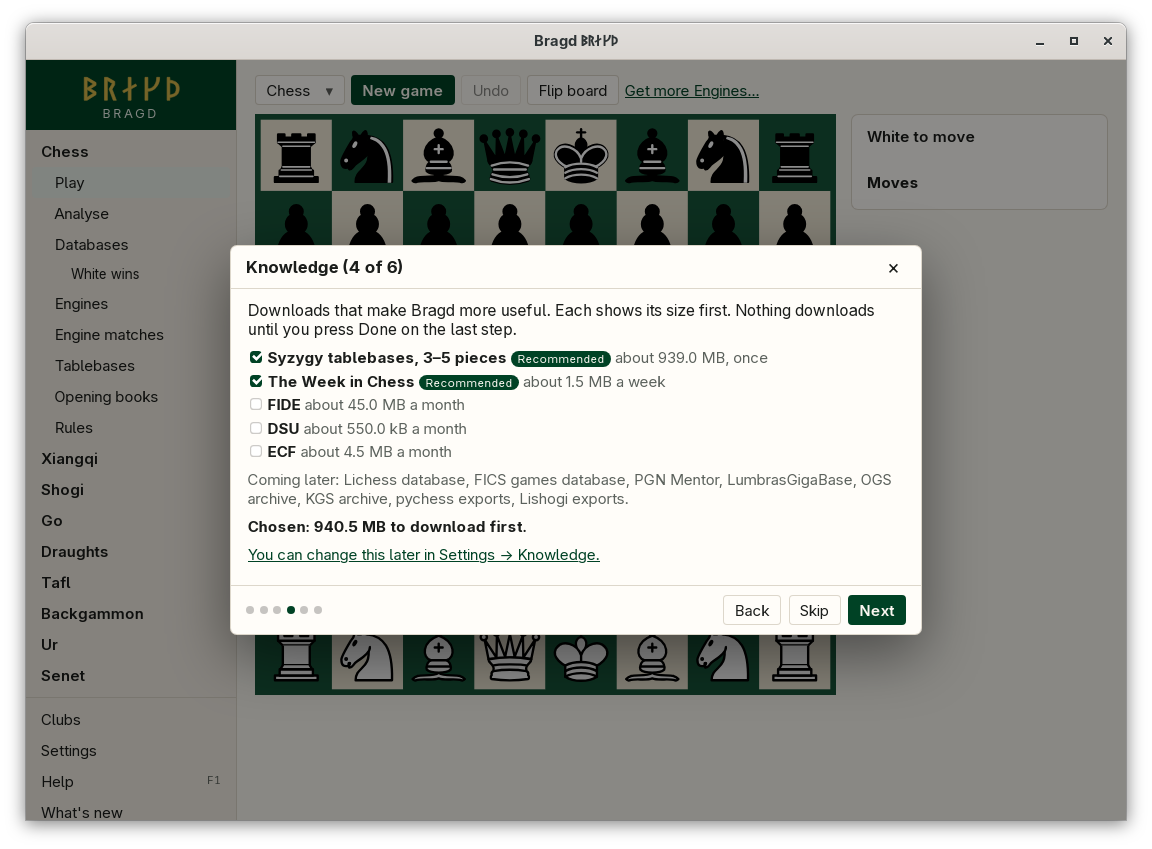
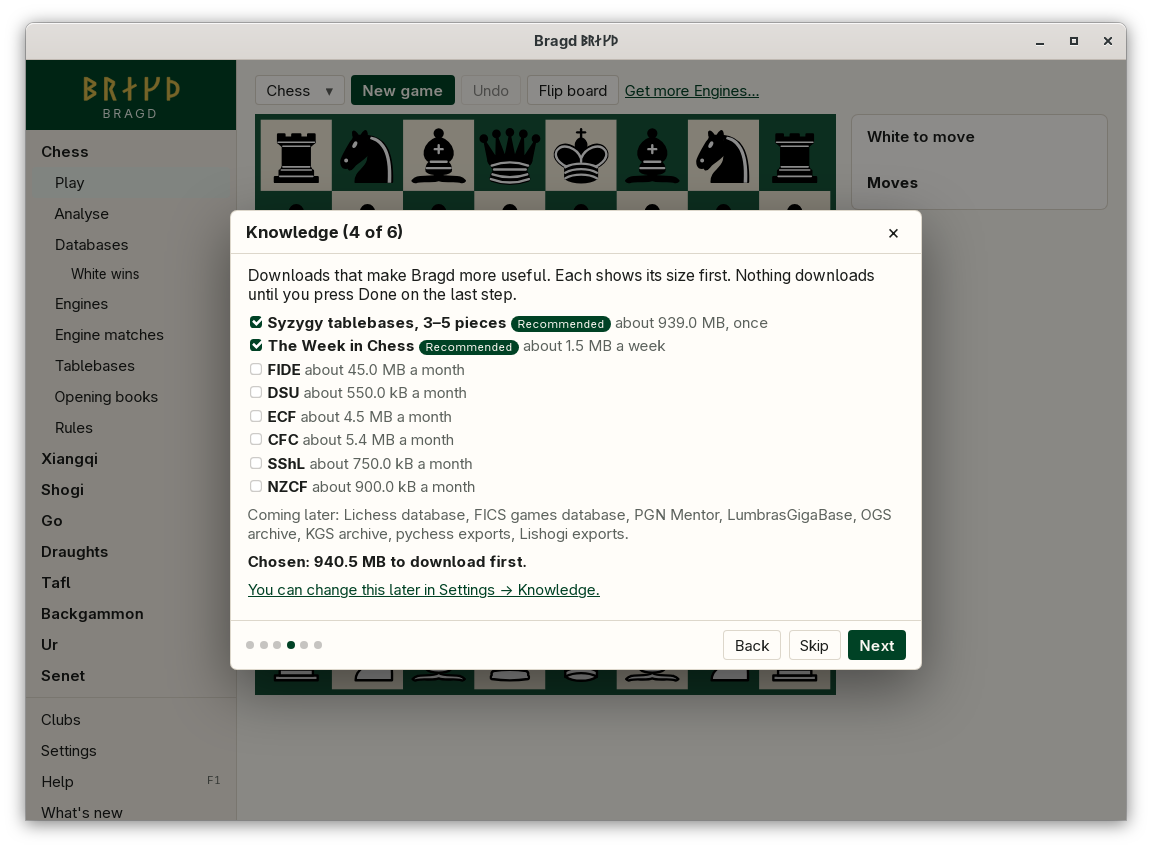
Find players in the Canadian, Finnish and New Zealand rating lists too.

Changed region(s): [[0.1875, 0.245, 0.8125, 0.8269]]

diff --git a/crates/bragd-clubs/src/lists.rs b/crates/bragd-clubs/src/lists.rs
@@ -57,6 +57,12 @@ pub enum Format {
     DsuCsv,
     /// The English Chess Federation's rating list: comma-separated, with a header.
     EcfCsv,
+    /// The Chess Federation of Canada's: comma-separated, a header, then a row holding its date.
+    CfcCsv,
+    /// The Finnish Chess Federation's: `;`-separated, Latin-1, each line ending in a `;`.
+    FinCsv,
+    /// The New Zealand Chess Federation's: a JSON array of objects whose values are all strings.
+    NzJson,
 }
 
 /// A rating list Bragd can fetch: its id (the Source's), its name, where it is, the file it is
@@ -77,6 +83,9 @@ pub const LISTS: &[List] = &[
     List { id: "fide-ratings", name: "FIDE", url: "https://ratings.fide.com/download/players_list.zip", file: "players_list.zip", size: 45_000_000, format: Format::FideTxt },
     List { id: "dsu-ratings", name: "DSU", url: "https://turnering.skak.dk/ClubAndMembers/AllMemberReport?memType=ActiveMembersAjax&format=csv", file: "dsu-members.csv", size: 550_000, format: Format::DsuCsv },
     List { id: "ecf-ratings", name: "ECF", url: "https://rating.englishchess.org.uk/api/rating-list/csv", file: "ecf-ratings.csv", size: 4_500_000, format: Format::EcfCsv },
+    List { id: "cfc-ratings", name: "CFC", url: "https://files.chess.ca/data/cfc-ratings.csv", file: "cfc-ratings.csv", size: 5_400_000, format: Format::CfcCsv },
+    List { id: "sshl-ratings", name: "SShL", url: "https://www.shakki.net/selo/selolista.csv", file: "sshl-ratings.csv", size: 750_000, format: Format::FinCsv },
+    List { id: "nzcf-ratings", name: "NZCF", url: "https://compete.newzealandchess.co.nz/wp-content/uploads/2024/10/nz_ratings.json", file: "nzcf-ratings.json", size: 900_000, format: Format::NzJson },
 ];
 
 /// What a parser hands each player to.
@@ -124,6 +133,11 @@ fn number<T: std::str::FromStr + PartialEq + Default>(s: &str) -> Option<T> {
     s.trim().parse().ok().filter(|n| *n != T::default())
 }
 
+/// An ID as a list writes it, none when blank or 0.
+fn id(s: &str) -> String {
+    if s.trim() == "0" { String::new() } else { s.trim().into() }
+}
+
 /// The players in `r`, written as `format`.
 pub fn parse(format: Format, r: &mut dyn BufRead, each: Each) -> io::Result<()> {
     match format {
@@ -161,8 +175,27 @@ pub fn parse(format: Format, r: &mut dyn BufRead, each: Each) -> io::Result<()> 
                 })
             })
         }
-        Format::DsuCsv | Format::EcfCsv => {
-            let sep = if format == Format::DsuCsv { ';' } else { ',' };
+        Format::NzJson => {
+            let rows: Vec<std::collections::HashMap<String, String>> = serde_json::from_reader(r).map_err(io::Error::other)?;
+            for f in rows {
+                let at = |k: &str| f.get(k).map_or("", |s| s.trim());
+                each(Player {
+                    id: at("nzcf").into(),
+                    name: format!("{}, {}", at("surname"), at("name")),
+                    federation: at("fed").into(),
+                    club: at("club").into(),
+                    title: at("title").into(),
+                    rating: number(at("nzcf_standard")),
+                    rapid: number(at("nzcf_rapid")),
+                    blitz: None,
+                    born: number(at("year")),
+                    fide_id: id(at("fide")),
+                })?;
+            }
+            Ok(())
+        }
+        Format::DsuCsv | Format::EcfCsv | Format::CfcCsv | Format::FinCsv => {
+            let sep = if matches!(format, Format::DsuCsv | Format::FinCsv) { ';' } else { ',' };
             let mut head: Vec<String> = vec![];
             lines(r, |line| {
                 let f = fields(line, sep);
@@ -175,9 +208,33 @@ pub fn parse(format: Format, r: &mut dyn BufRead, each: Each) -> io::Result<()> 
                     let i = if last { head.iter().rposition(|h| h == name) } else { head.iter().position(|h| h == name) };
                     i.and_then(|i| f.get(i)).map_or("", |s| s.trim())
                 };
-                each(if format == Format::DsuCsv {
+                each(match format {
+                    // CFC's second row holds the list's date under the ID -100.
+                    Format::CfcCsv if at("cfc_id", false).starts_with('-') => return Ok(()),
+                    Format::CfcCsv => Player {
+                        id: at("cfc_id", false).into(),
+                        name: format!("{}, {}", at("name_last", false), at("name_first", false)),
+                        federation: "CAN".into(),
+                        rating: number(at("cfc_rating", false)),
+                        rapid: number(at("cfc_rating_rapid", false)),
+                        fide_id: id(at("fide_id", false)),
+                        ..Player::default()
+                    },
+                    // `selo` is the national rating and `pelo` the rapid one; `elo` is FIDE's.
+                    Format::FinCsv => Player {
+                        id: at("id", false).into(),
+                        name: format!("{}, {}", at("sukunimi", false), at("etunimi", false)),
+                        federation: at("kansallisuus", false).into(),
+                        club: at("seura", false).into(),
+                        title: at("titteli", false).into(),
+                        rating: number(at("selo", false)),
+                        rapid: number(at("pelo", false)),
+                        blitz: None,
+                        born: number(at("syntvuosi", false)),
+                        fide_id: id(at("fide_id", false)),
+                    },
                     // `Nr` twice: the DSU member number first, the FIDE ID last.
-                    Player {
+                    Format::DsuCsv => Player {
                         id: at("Nr", false).into(),
                         name: at("Navn", false).into(),
                         federation: "DEN".into(),
@@ -188,9 +245,8 @@ pub fn parse(format: Format, r: &mut dyn BufRead, each: Each) -> io::Result<()> 
                         blitz: number(at("Lyn", false)),
                         born: number(at("Født", false)),
                         fide_id: at("Nr", true).into(),
-                    }
-                } else {
-                    Player {
+                    },
+                    Format::EcfCsv | Format::FideTxt | Format::NzJson => Player {
                         id: at("ECF_code", false).into(),
                         name: at("full_name", false).into(),
                         federation: at("nation", false).into(),
@@ -201,7 +257,7 @@ pub fn parse(format: Format, r: &mut dyn BufRead, each: Each) -> io::Result<()> 
                         blitz: number(at("revised_blitz", false)),
                         born: None,
                         fide_id: at("FIDE_no", false).into(),
-                    }
+                    },
                 })
             })
         }
@@ -488,6 +544,44 @@ mod tests {
         let p = &ps[0];
         assert_eq!((p.id.as_str(), p.name.as_str(), p.federation.as_str(), p.club.as_str(), p.title.as_str(), p.fide_id.as_str()), ("100057D", "Kennaugh, Charles W", "ENG", "Atticus", "FM", "400815"));
         assert_eq!((p.rating, p.rapid), (Some(2118), None));
+    }
+
+    #[test]
+    fn the_cfc_list_skips_its_date_row_and_reads_0_as_none() {
+        let csv = "cfc_id,name_first,name_last,cfc_expiry,cfc_rating,cfc_rating_rapid,fide_id,city,province,sex\r\n\
+-100,2026-10-29,,,,,,,,\r\n\
+100027,Philip G.,Haley,2019-01-01,1758,1700,2604442,North York,ON,M\r\n\
+100120,Wilson,Neil,2099-12-01,0,0,0,\"Dallas, TX\",US,M\r\n";
+        let ps = parsed(Format::CfcCsv, csv.as_bytes());
+        assert_eq!(ps.len(), 2);
+        let p = &ps[0];
+        assert_eq!((p.id.as_str(), p.name.as_str(), p.federation.as_str(), p.fide_id.as_str()), ("100027", "Haley, Philip G.", "CAN", "2604442"));
+        assert_eq!((p.rating, p.rapid), (Some(1758), Some(1700)));
+        assert_eq!((ps[1].rating, ps[1].fide_id.as_str()), (None, ""));
+    }
+
+    #[test]
+    fn the_finnish_list_is_read_in_latin_1_with_its_trailing_separator() {
+        let csv = b"id;fide_id;titteli;sukunimi;etunimi;seura;selo;selopelej\xe4;selovuosi;pelo;pelopelej\xe4;pelovuosi;elo;sukupuoli;kansallisuus;syntvuosi;lisenssi;\r\n\
+1;504599;ME;Aakio;Seppo;LauttSSK;2004;954;2026;2099;2629;2026;2017;M;FIN;1954;L;\r\n\
+2;;;\xc4kr\xf6;Erica;KOULU/;1446;7;;;;;;F;FIN;;;\r\n";
+        let ps = parsed(Format::FinCsv, csv);
+        assert_eq!(ps.len(), 2);
+        let p = &ps[0];
+        assert_eq!((p.id.as_str(), p.name.as_str(), p.club.as_str(), p.title.as_str(), p.federation.as_str(), p.fide_id.as_str()), ("1", "Aakio, Seppo", "LauttSSK", "ME", "FIN", "504599"));
+        assert_eq!((p.rating, p.rapid, p.born), (Some(2004), Some(2099), Some(1954)));
+        assert_eq!((ps[1].name.as_str(), ps[1].rapid, ps[1].born), ("Äkrö, Erica", None, None));
+    }
+
+    #[test]
+    fn the_new_zealand_list_is_read_from_its_json() {
+        let json = r#"[{"surname": "Abbott", "name": "Isaac", "fed": "NZL", "year": "2007", "title": "", "fide": "4326350", "nzcf": "20069", "club": "", "nzcf_standard": "1544", "nzcf_rapid": "1410", "fide_standard": "1730", "fide_rapid": "1598"}, {"surname": "Chow", "name": "Marcus", "fed": "NZL", "year": "2014", "title": "", "fide": "0", "nzcf": "20712", "club": "NS", "nzcf_standard": "", "nzcf_rapid": "1144", "fide_standard": "0", "fide_rapid": "1578"}]"#;
+        let ps = parsed(Format::NzJson, json.as_bytes());
+        assert_eq!(ps.len(), 2);
+        let p = &ps[0];
+        assert_eq!((p.id.as_str(), p.name.as_str(), p.federation.as_str(), p.fide_id.as_str()), ("20069", "Abbott, Isaac", "NZL", "4326350"));
+        assert_eq!((p.rating, p.rapid, p.born), (Some(1544), Some(1410), Some(2007)));
+        assert_eq!((ps[1].rating, ps[1].club.as_str(), ps[1].fide_id.as_str()), (None, "NS", ""));
     }
 
     #[test]

diff --git a/crates/bragd-helper/src/sources.rs b/crates/bragd-helper/src/sources.rs
@@ -527,7 +527,7 @@ pub(crate) mod tests {
     #[test]
     fn the_registry_lists_every_source_and_fetches_only_some() {
         let ids: Vec<String> = builtin().iter().map(|s| s.about().id).collect();
-        assert_eq!(ids, ["twic", "lichess-db", "fics", "pgnmentor", "lumbras", "ogs", "kgs", "pychess", "lishogi", "fide-ratings", "dsu-ratings", "ecf-ratings"]);
+        assert_eq!(ids, ["twic", "lichess-db", "fics", "pgnmentor", "lumbras", "ogs", "kgs", "pychess", "lishogi", "fide-ratings", "dsu-ratings", "ecf-ratings", "cfc-ratings", "sshl-ratings", "nzcf-ratings"]);
         for s in builtin().iter().skip(1).filter(|s| s.about().kind == Kind::Games) {
             let a = s.about();
             assert!(!a.fetchable && a.notice.as_deref() == Some(OUT_OF_SCOPE) && a.size > 0, "{}", a.id);

diff --git a/docs/reference/rating-lists.md b/docs/reference/rating-lists.md
@@ -9,6 +9,10 @@ Bragd can download rating lists so you can find players by name or ID at check-i
 - [The lists Bragd fetches](#the-lists-bragd-fetches)
 - [FIDE](#fide)
 - [Denmark (DSU)](#denmark-dsu)
+- [Canada (CFC)](#canada-cfc)
+- [Finland (SShL)](#finland-sshl)
+- [New Zealand (NZCF)](#new-zealand-nzcf)
+- [Lists Bragd does not fetch](#lists-bragd-does-not-fetch)
 - [Other federations](#other-federations)
 - [Questions](#questions)
 
@@ -21,8 +25,11 @@ Each is a Source of its own on the Sources page (chess's Databases item), off un
 | FIDE | `players_list.zip` | 45 MB | FIDE ID, name, federation, title, standard, rapid and blitz ratings, birth year |
 | DSU | the CSV of *Alle medlemmer* | 0.5 MB | DSU number, name, club, title, DSU standard, rapid and blitz ratings, birth year, FIDE ID |
 | ECF | `rating-list/csv` | 4.5 MB | ECF code, name, nation, club, title, revised standard, rapid and blitz ratings, FIDE ID |
+| CFC | `cfc-ratings.csv` | 5.4 MB | CFC ID, name, standard and rapid ratings, FIDE ID |
+| SShL | `selolista.csv` | 0.75 MB | SShL ID, name, nationality, club, title, national standard and rapid ratings, birth year, FIDE ID |
+| NZCF | `nz_ratings.json` | 0.9 MB | NZCF ID, name, federation, club, title, NZCF standard and rapid ratings, birth year, FIDE ID |
 
-The others below are not fetched: their file is not one a program can read on a schedule, their address changes each period, or their terms forbid it or ask for agreement first. Adding them is [issue #126](https://github.com/mwo-dk/bragd/issues/126).
+The others are not fetched, each for the reason in [Lists Bragd does not fetch](#lists-bragd-does-not-fetch).
 
 ## FIDE
 
@@ -124,6 +131,59 @@ Personal data: the file has name, birth year, age and club for every player, whi
 
 The list holds the active members only. The rules say a player whose last rated result is more than three years old leaves the list (see the [rating rules, 24 June 2025](https://love.skak.dk/wp-content/uploads/sites/3/Ratingreglementet-20250624.pdf), 200). The rules also set a minimum of 1200. A rating of a returning player is stored and used again.
 
+## Canada (CFC)
+
+| Item | Value |
+|---|---|
+| URL | [`https://files.chess.ca/data/cfc-ratings.csv`](https://files.chess.ca/data/cfc-ratings.csv), from the Data Files box of the [organisers page](https://www.chess.ca/en/organizers/) |
+| Verified | 2026-11-01, 200 |
+| Size | 5.4 MB, 96,896 rows; 55,750 with a CFC rating, 10,654 with a FIDE ID |
+| Encoding | UTF-8, lines end in CR LF, comma separated, a field holding a comma is quoted |
+| Updated | Not stated; the file was last changed on 30 Oct 2026 |
+| Licence | None stated. `robots.txt` allows every agent |
+
+The header is `cfc_id,name_first,name_last,cfc_expiry,cfc_rating,cfc_rating_rapid,fide_id,city,province,sex`. The second row is not a player: its `cfc_id` is `-100` and its `name_first` holds the list's date. A rating or FIDE ID of `0` means none. Lapsed members stay in the list. The organisers page labels the link `cfc-ratings.zip`, which answers 404; the file is the `.csv` beside it.
+
+## Finland (SShL)
+
+| Item | Value |
+|---|---|
+| URL | [`https://www.shakki.net/selo/selolista.csv`](https://www.shakki.net/selo/selolista.csv), "koko lista CSV-muodossa" on the [rating page](https://www.shakki.net/selo/) |
+| Verified | 2026-11-01, 200 |
+| Size | 740 KB, 12,070 players; 3,527 with a FIDE ID |
+| Encoding | ISO-8859-1 (Latin 1), lines end in CR LF, `;` separated, every line ends in a `;` |
+| Updated | Irregular; the national list was dated 30 Oct 2026, the rapid list 23 Oct 2026 |
+| Licence | None stated |
+
+The header is `id;fide_id;titteli;sukunimi;etunimi;seura;selo;selopelejä;selovuosi;pelo;pelopelejä;pelovuosi;elo;sukupuoli;kansallisuus;syntvuosi;lisenssi;`. `selo` is the national standard rating and `pelo` the rapid one; `elo` is the FIDE rating. `titteli` holds Finnish titles (such as ME and KvM) as well as FIDE's.
+
+## New Zealand (NZCF)
+
+| Item | Value |
+|---|---|
+| URL | [`https://compete.newzealandchess.co.nz/wp-content/uploads/2024/10/nz_ratings.json`](https://compete.newzealandchess.co.nz/wp-content/uploads/2024/10/nz_ratings.json), the file the [ratings page](https://compete.newzealandchess.co.nz/new-zealand-ratings-list/) draws its table from |
+| Verified | 2026-11-01, 200 |
+| Size | 871 KB, 4,036 players; 2,445 with a FIDE ID |
+| Encoding | UTF-8, one line |
+| Updated | Four times a year; the file is replaced in place (last changed 21 Oct 2026) |
+| Licence | None stated. `robots.txt` asks for 10 seconds between requests; Bragd makes one a month |
+
+The file is an array of objects whose values are all strings: `surname`, `name`, `fed`, `year`, `title`, `fide`, `nzcf`, `club`, `nzcf_standard`, `nzcf_rapid`, `fide_standard`, `fide_rapid`. An empty value or `0` means none. The CSV and JSON buttons on the page make their file in the browser from this one. The address names a 2024 upload folder: if the NZCF moves the file, the fetch fails and the Sources page says so.
+
+## Lists Bragd does not fetch
+
+Checked again on 2026-11-01.
+
+- **Germany (DSB):** the README in the zip says publishing the data needs prior agreement with the DWZ referee. Bragd waits for the DSB's agreement.
+- **Australia (ACF):** the terms forbid importing the files into any other database or program.
+- **Catalonia (FCE):** the legal notice allows private download but forbids transforming the content, which an import does.
+- **Sweden (SSF):** the API's terms allow it, but the date is part of the address and a wrong date gives an empty list. Bragd needs to learn the list dates first.
+- **Czechia:** the stable file is an old binary Excel file, which Bragd cannot read.
+- **Austria, Colombia, Japan:** the file name carries the period, and Austria's and Japan's are Excel and PDF.
+- **Armenia:** the download is a form post, with no address to fetch.
+- **Switzerland, Netherlands, Belgium, Norway, Poland, Estonia, Israel, Greece, Georgia, Latvia:** a search page or a JavaScript app only, with no file or documented API.
+- **Lithuania, Chile, Peru, Mexico, South Korea, Iran:** no list found, or the federation's site was not found.
+
 ## Other federations
 
 "FIDE list only" means the federation's own site shows no download that a program can fetch. Where a row says "web page only", a person can look players up but the page has no file or API. "Verified" is the HTTP status of the file or page on 2026-11-01. Federations not listed individually in this table were not searched beyond their home page.
@@ -133,47 +193,48 @@ The list holds the active members only. The rules say a player whose last rated 
 | Germany | DSB (DWZ) | [LV-0-csv.zip](https://www.schachbund.de/download-dwz-daten.html?file=files/wertungsportal/downloads/export/csv/LV-0-csv.zip), the whole DSB, 3.1 MB; one zip per regional association (`LV-1` to `LV-M`) is on the [download page](https://www.schachbund.de/download-dwz-daten.html) | ZIP of `spieler.csv`, `vereine.csv`, `verbaende.csv`, `README.txt`. Comma separated, Windows-1252. Fields: ID, club number, membership number, status (A active, P passive), "Surname,Given name", sex, birth year, last evaluation week, DWZ, index, FIDE rating, title, ID, country, rapid and blitz | The README says: "Eine Veröffentlichung dieser Daten ist nur nach vorheriger Absprache mit dem zuständigen DWZ-Referenten erlaubt!" (publishing needs prior agreement) | Every day at 04:15, DWZ joined with the current FIDE data. 97,712 players on 31 Oct 2026 | 200 (file), 200 (page) |
 | England (UK) | ECF | [rating-list/csv](https://rating.englishchess.org.uk/api/rating-list/csv), 4.5 MB, 45,830 rows; also [json](https://rating.englishchess.org.uk/api/rating-list/json) and [sm](https://rating.englishchess.org.uk/api/rating-list/sm) (Swiss Manager, fewer columns) | CSV with a header: ECF code, name, member number, FIDE ID, sex, nation, original and revised standard, rapid and blitz (also online), club code, club name, title | None stated. The [API page](https://rating.englishchess.org.uk/help/api) says "Subject to change without notice currently" and limits use to 10 minutes of processing per day per class C network | "Original" ratings at month end, "revised" ratings nightly | 200 (csv); API page 200 |
 | Australia | ACF | [rating-lists page](https://auschess.org.au/rating-lists/) with [sepmst26.txt](https://auschess.org.au/wp-content/uploads/2026/09/sepmst26.txt) (master file, 2.4 MB), [sep26act.txt](https://auschess.org.au/wp-content/uploads/2026/09/sep26act.txt) (active, 226 KB), `sep26quick.txt`, and Vega and Swiss Perfect zips ([vegamast.zip](https://auschess.org.au/wp-content/uploads/2026/09/vegamast.zip) 0.9 MB, [acfmast.zip](https://auschess.org.au/wp-content/uploads/2026/09/acfmast.zip) 1.4 MB) | Fixed-width TXT, CR LF: rating (with reliability mark), games, rank and points columns, state, name. Master file starts `ACF Master File for September 2026`; the first column is the ACF ID | Copyright ACF. The page says that by downloading you agree not to modify, extract or reverse engineer the data, or import it into other systems. Bragd must not import it | Per rating period; the page says "Updated September 5th, 2026". File names carry the month, so the URL changes | 200 (page); files 206 on a range request. A plain HEAD request returned 404 |
-| Canada | CFC | [cfcmembers.mde](https://storage.googleapis.com/cfc-public/data/cfcmembers.mde), 9.2 MB | Microsoft Access database (`.mde`) with CFC and FIDE IDs and ratings. Linked from the [Swiss-Manager tools page](https://www.chess.ca/en/organizers/tools/swiss-manager) | None stated | Not stated; the file was last changed on 30 Oct 2026 | 200 |
-| New Zealand | NZCF | [2026-3-Alphabetical-20261020.xlsx](https://compete.newzealandchess.co.nz/wp-content/uploads/2026/10/2026-3-Alphabetical-20261020.xlsx) (429 KB) and [2026-3-Active-20261020.xlsx](https://compete.newzealandchess.co.nz/wp-content/uploads/2026/10/2026-3-Active-20261020.xlsx) (80 KB), from the [ratings page](https://compete.newzealandchess.co.nz/new-zealand-ratings-list/). The page also has CSV and JSON buttons whose URLs were not found | XLSX; the file name carries the period and the date, so the URL changes | None stated | Four times a year (1 Jan, 1 Apr, 1 Jul, 1 Oct, per the rating regulations); the page says "Updated 22/10/2026" | 200 (both) |
-| Czechia | Šachový svaz ČR (LOK) | [20261001_lok_sm_ascii.zip](https://elo.miramal.com/download/20261001_lok_sm_ascii.zip) (1.4 MB), [20261001_lok_sm_cz.zip](https://elo.miramal.com/download/20261001_lok_sm_cz.zip) (1.4 MB, with diacritics), rapid in `..._rapid_lok_sm_cz.zip` | ZIP of one old binary XLS (`lok_sm_ascii.xls`, 4.6 MB), made for Swiss Manager. Columns not read | None stated | Periodic (list dated 1 Oct 2026, "Aktualizováno: 1. říjen 2026"). File names carry the date | 200 |
-| Finland | Suomen Shakkiliitto (tasaselo) | [selolist.txt](http://www.shakki.net/tasaselo/selolist.txt), 784 KB, about 12,000 lines. Page: [shakki.net/tasaselo](https://www.shakki.net/tasaselo/) | Fixed-width TXT, Latin 1, CR LF. Header `Nimi / Seura / Selo / Pelejä / L`. Columns: running number, surname, given name, club, rating, games. No ID | None stated | Irregular; dated 15 Oct 2026 | 200 (the `http` URL redirects once) |
+| Canada | CFC | Fetched: see [Canada (CFC)](#canada-cfc). Also [cfcmembers.mde](https://storage.googleapis.com/cfc-public/data/cfcmembers.mde) (9.2 MB, Microsoft Access) and [tdlist.txt](https://storage.googleapis.com/cfc-public/data/tdlist.txt) (5.3 MB), linked from the [organisers page](https://www.chess.ca/en/organizers/) | CSV | None stated | See its section | 200 |
+| New Zealand | NZCF | Fetched: see [New Zealand (NZCF)](#new-zealand-nzcf). The XLSX files on the [ratings page](https://compete.newzealandchess.co.nz/new-zealand-ratings-list/) carry the period in their names | JSON | None stated | Four times a year | 200 |
+| Czechia | Šachový svaz ČR (LOK) | [lok_sm_cz.xls](https://elo.miramal.com/download/lok_sm_cz.xls) (4.7 MB), overwritten each period; dated zips such as [20261001_lok_sm_cz.zip](https://elo.miramal.com/download/20261001_lok_sm_cz.zip) beside it. [chess.cz](https://www.chess.cz/sachovy-svaz-cr/elo/) links only here and to FIDE | Old binary Excel (BIFF, code page 1250), made for Swiss Manager. Columns: ID_no, Name, ClubName, BirthDay (`00.00.YYYY`), Sex, Rtg_nat, Rtg_int, Title, FIDE_no, Fed, ClubNo, Status | None stated | Classical list each 1 February, rapid each 1 November; the list shown is dated 1 Oct 2026 | 200 |
+| Finland | Suomen Shakkiliitto (SShL) | Fetched: see [Finland (SShL)](#finland-sshl). The older [selolist.txt](http://www.shakki.net/tasaselo/selolist.txt) is fixed-width with no FIDE ID | CSV | None stated | See its section | 200 |
 | Spain | FEDA | [Lista Elo FEDA Diciembre 2023](https://feda.org/feda2k16/wp-content/uploads/2023_12_FEDA.xlsx), 3.4 MB; index page [elo-feda](https://feda.org/feda2k16/elo-feda/) | XLSX, one per month. Older months are zips (`2022-04.zip`, 2.8 MB, with a lookup program) | None stated | Monthly until December 2023. The page has no newer list, and the 2024 and 2026 file names I tried returned 404 | 200 (December 2023 file); 404 for later months |
-| Spain | FCE (Catalonia) | Web view [escacs.cat/index.php/component/fce?op=25](https://escacs.cat/index.php/component/fce?op=25) | Web page only; no file found | None stated | Not stated | 200 |
+| Spain | FCE (Catalonia) | [EloActualStd.xls](https://escacs.cat/arxielo/EloActualStd.xls) and [EloActualRpd.xls](https://escacs.cat/arxielo/EloActualRpd.xls) (580 KB each), linked from [the Elo page](https://escacs.cat/index.php/component/fce?op=25) | Tab-separated text despite the name, Latin 1: FCE code, name, sex, K, Elo, title, category, club. No FIDE ID | The [legal notice](https://escacs.cat/index.php/avis-legal) allows download "pel seu us privat i sense cap finalitat comercial" and forbids "transformació, distribució ... qualsevol altre forma d'explotació" | Monthly (last changed 31 Oct 2026) | 200 |
 | Spain | Basque federation | FIDE list only | Not searched in depth | | | |
-| Austria | ÖSB | [chess-results.com/OesbEloSuche.aspx](https://chess-results.com/OesbEloSuche.aspx) | Web search page only; [chess.at/elo.html](https://www.chess.at/elo.html) links to it. The only download on [chess.at](https://www.chess.at/service/downloads.html) is the Elo rules (PDF) | None stated | Not stated | 200 (page); search page not fetched |
+| Austria | ÖSB | [chess-results.com/OesbEloSuche.aspx](https://chess-results.com/OesbEloSuche.aspx) offers the list as a zipped Excel file, e.g. [Eloliste_20261001.zip](https://chess-results.com/download/elolisten/Eloliste_20261001.zip) | Excel in a zip; the file name carries the date | None stated | Per rating period | 200 |
 | Switzerland | SSB | [Spielersuche](https://swisschess.ch/de/sport/rating-spieler/spielersuche) | Web table only (columns Code, FIDE-ID, Name, Vorname, Liz., Elo, Kat., Sektion). No export | None stated | Not stated | 200 |
-| Armenia | Chess Federation of Armenia | [players-ratings](https://www.chessfed.am/am/players-ratings/) | Page with an "Download in .xlsx" button for national and FIDE ratings. The button URL was not found, so a program cannot use it yet | None stated | International list "as of 01/10/2026" | 200 (page) |
+| Armenia | Chess Federation of Armenia | [players-ratings](https://www.chessfed.am/am/players-ratings/) | The "Download in .xlsx" buttons post a form (`operation=international_xls_export`); there is no address to fetch | None stated | International list "as of 01/10/2026" | 200 (page) |
 | Israel | Israel Chess Federation | [RatingUpdateInfo](https://www.chess.org.il/Players/RatingUpdateInfo.aspx) | Paginated web table only (number, name, rating, change, games) | Site terms page exists; content not read | Update dated 01/10/2026 | 200 |
 | France | FFE | FIDE list only | The home page links only to Elo Rapide and to chess-results pages. No download found | | | home page 200 |
 | Belgium | FRBE / KBSB | no public list found | The site is a JavaScript app; no file link found | | | home page 200 |
 | Netherlands | KNSB | no public list found | The KNSB rules say the rating commissioner compiles a full list "at least four times a year". The viewer site `ratingviewer.nl` is a JavaScript app; no file or API found | | | 200 (viewer home page) |
-| Sweden | SSF | no public list found | `member.schack.se` is a JavaScript app; `www.schack.se` did not answer | | | `www.schack.se` not reachable |
+| Sweden | SSF | Public API, [documented](https://member.schack.se/swagger-ui/index.html): `https://member.schack.se/public/api/v1/ratinglist/federation/date/{YYYY-MM-DD}/ratingtype/{1,6,7}/category/0` | JSON, UTF-8: SSF ID, names, birth year, FIDE ID, club, standard, rapid and blitz ratings | The [terms](https://halvarsson.no-ip.com/wordpressssf/publikt-api/anvandarvillkor/) allow use in other products, commercial use included, if the source is named. The date is part of the address; `2026-11-01` answered with 3,319 players, a date with no list answers `[]` | Monthly | 200 |
 | Norway | NSF | no public list found | No rating page found on the home page | | | home page 200 |
 | Poland | PZSzach | no public list found | The member and club registers are web pages; no ranking file | | | home page 200 |
 | Estonia | Eesti Maleliit | no public list found | The site is a JavaScript app; no file link found | | | home page 200 |
-| Greece | Hellenic Chess Federation | no public list found | `www.chessfed.gr` answered 406 to the check | | | not reachable (406) |
+| Greece | Hellenic Chess Federation | no public list found | [chessfed.gr/elo](https://www.chessfed.gr/elo) is a search page; the earlier 406 came from the checker's user agent | | | 200 |
 | Ukraine | UCF | no public list found | `ucf.org.ua` now redirects to an unrelated site; do not use | | | 200 but wrong site |
 | Italy | FSI | no public list found | Not checked beyond the home page | | | home page 200 |
 | Singapore | Singapore Chess Federation | FIDE list only | Not checked beyond the home page | | | home page 200 |
 | Taiwan | Chinese Taipei Chess Association | FIDE list only | Not checked beyond the home page | | | home page 200 |
-| Iran | Iran Chess Federation | FIDE list only | `chess.org.ir` not reachable; `fcf.ir` answered 200, not searched | | | not reachable |
+| Iran | Iran Chess Federation | no public list found | [fcf.ir](https://fcf.ir/fa) has no rating page; `chess.org.ir` does not resolve | | | 200 |
 | Argentina | FADA | FIDE list only | The address `fada.org.ar` I tried belongs to another sport; not confirmed | | | 200, wrong site |
-| Japan | JCA | FIDE list only | Not reachable by the address tried | | | not reachable |
-| South Korea | Korea Chess Federation | FIDE list only | Not reachable by the address tried | | | not reachable |
-| Georgia | Georgian Chess Federation | FIDE list only | Not reachable by the address tried | | | not reachable |
-| Lithuania | LŠF | FIDE list only | Not reachable by the addresses tried | | | not reachable |
-| Latvia | LŠF | FIDE list only | Not reachable by the address tried | | | not reachable |
+| Japan | JCA | Monthly PDF, e.g. [2026-11-01.pdf](https://japanchess.org/wp-content/uploads/2026/10/2026-11-01.pdf) | PDF; the address carries the month | | Monthly | 200 |
+| South Korea | Korea Chess Federation | no public list found | [kcf.or.kr](https://kcf.or.kr/) has no rating page | | | 200 |
+| Georgia | Georgian Chess Federation | no public list found | [geochess.ge](https://geochess.ge/) has rating pages but no download | | | 200 |
+| Lithuania | LŠF | FIDE list only | `lsf.lt` belongs to another sport; `sachmatai.lt` is "under reconstruction" | | | wrong site |
+| Latvia | LŠF | no public list found | [sahafederacija.lv](https://www.sahafederacija.lv/) is a JavaScript app | | | 200 |
 | Mexico | FEMEXA | FIDE list only | Not reachable by the address tried | | | not reachable |
-| Chile, Colombia, Peru | national federations | FIDE list only | Not reachable by the addresses tried | | | not reachable |
+| Colombia | Federación Colombiana de Ajedrez | [elo-2](https://federacioncolombianadeajedrez.com/elo-2/) lists monthly files, e.g. `ELOOct.csv` (15.3 MB) and `Elo_Nac_COL_octubre_2026.xlsx` | CSV and XLSX; the month is in each name | None stated | Monthly | 200 |
+| Chile, Peru | national federations | FIDE list only | Not reachable: `ajedrezchile.cl` now leads to an unrelated site; the Peruvian addresses tried do not resolve | | | not reachable |
 | Bolivia, Costa Rica, Cuba, Dominican Republic, Ecuador, Guatemala, Honduras, Nicaragua, Panama, Puerto Rico, El Salvador, Uruguay, Venezuela | national federations | FIDE list only | Not searched; no national list known | | | not checked |
 
-Data from the German, English, Australian and Danish rows has names and birth years or member numbers of private people. Bragd keeps any list it downloads on the machine and does not upload it.
+Data from the German, English, Canadian, Finnish, New Zealand, Australian and Danish rows has names and birth years or member numbers of private people. Bragd keeps any list it downloads on the machine and does not upload it.
 
 ## Questions
 
 #### Why is my federation's list missing?
 
-Most small federations only use the FIDE list, and many of the others publish no file, only a search page. A search page is no use to Bragd, which must fetch a list on a schedule and check players offline. Where a federation has a list but its terms forbid use in other software (Australia) or ask for agreement first (Germany), the federation's permission is needed before Bragd can use it.
+Most small federations only use the FIDE list, and many of the others publish no file, only a search page. A search page is no use to Bragd, which must fetch a list on a schedule and check players offline. Where a federation has a list but its terms forbid use in other software (Australia, Catalonia) or ask for agreement first (Germany), the federation's permission is needed before Bragd can use it.
 
 #### Is a downloaded list sent anywhere?
 
@@ -181,7 +242,7 @@ No. It stays in `rating-lists.sqlite` on your machine. Searching it at check-in 
 
 #### How big are the downloads?
 
-The FIDE combined list is 45 MB zipped and 320 MB unzipped, about 1.9 million lines. The standard-only list is 13 MB. The Danish list is 0.5 MB and the English one 4.5 MB. The wizard and the Sources page show each list's size before anything is downloaded.
+The FIDE combined list is 45 MB zipped and 320 MB unzipped, about 1.9 million lines. The standard-only list is 13 MB. The Danish list is 0.5 MB, the Finnish 0.75 MB, the New Zealand 0.9 MB, the English 4.5 MB and the Canadian 5.4 MB. The wizard and the Sources page show each list's size before anything is downloaded.
 
 #### How much disk does a list take, and how fast is a search?
 
@@ -193,7 +254,7 @@ Once a month, once you tick the list in the wizard or turn it on under Sources. 
 
 #### Can I use a list Bragd does not know?
 
-Not yet. Bragd reads only the three lists above. Members a list does not have can be added to a Club by hand, with their IDs ([Clubs](../clubs/clubs.md)).
+Not yet. Bragd reads only the six lists above. Members a list does not have can be added to a Club by hand, with their IDs ([Clubs](../clubs/clubs.md)).
 
 ---
 [← Previous: Privacy](privacy.md) · [Next: Swiss pairing →](swiss-pairing.md)

diff --git a/docs/getting-started/first-start.md b/docs/getting-started/first-start.md
@@ -15,13 +15,13 @@ On the first start Bragd opens the install wizard: six short steps in a frame ov
 | 1 Welcome | Language (each by its own name), Theme and Board theme, with a preview | Look |
 | 2 Your games | *Which games do you play?* One click on *Only Chess* (or any other Family) keeps that one and turns the rest off. *Several…* shows a switch for every Family and Variant | Game families |
 | 3 Engines | Nothing: it shows the Engines found on this machine for each Family that is on, or that Bragd's own Bot plays it | Engines |
-| 4 Knowledge | Downloads: TWIC every week and Syzygy 3–5 pieces (about 1 GB) are ticked; the others, the FIDE, DSU and ECF rating lists among them, are listed with their sizes. One line names the Sources coming later | Knowledge |
+| 4 Knowledge | Downloads: TWIC every week and Syzygy 3–5 pieces (about 1 GB) are ticked; the others, the FIDE, DSU, ECF, CFC, SShL and NZCF rating lists among them, are listed with their sizes. One line names the Sources coming later | Knowledge |
 | 5 Online | Nothing yet: signing in to servers comes in a later version. Until then it links the sites that play your Families | Online, when it has a setting for your Families |
 | 6 Helper | *Start with my session* | Knowledge |
 
 Choices in steps 1, 2 and 6 are saved at once, as in Settings. Nothing is downloaded until you press **Done** on the last step, which lists what will happen. Then Bragd turns the chosen Sources on in the Helper, starting the Helper if none runs, and starts the Syzygy download. **Skip** on step 4 unticks every download. The wizard adds up the sizes and warns when the downloads would leave less than 5 GB free on the disk that holds Bragd's data. A single Source of 10 GB or more carries its own warning.
 
-![The Knowledge step: TWIC and Syzygy 3–5 ticked and marked Recommended, the FIDE, DSU and ECF rating lists unticked, the line naming the Sources coming later, and the total under the list](../screenshots/wizard-knowledge-1100.png)
+![The Knowledge step: TWIC and Syzygy 3–5 ticked and marked Recommended, the FIDE, DSU, ECF, CFC, SShL and NZCF rating lists unticked, the line naming the Sources coming later, and the total under the list](../screenshots/wizard-knowledge-1100.png)
 *Step 4, Knowledge: each download with its size, and the total.*
 
 ![The Helper step: the Start with my session switch, and the list of what Done will do](../screenshots/wizard-helper-1100.png)

diff --git a/docs/knowledge/sources.md b/docs/knowledge/sources.md
@@ -34,12 +34,15 @@ The install wizard's Knowledge step offers TWIC too, ticked ([The install wizard
 | `fide-ratings` | FIDE rating list | chess | 45 MB | Monthly | Yes |
 | `dsu-ratings` | DSU rating list | chess | 0.5 MB | Monthly | Yes |
 | `ecf-ratings` | ECF rating list | chess | 4.5 MB | Monthly | Yes |
+| `cfc-ratings` | CFC rating list | chess | 5.4 MB | Monthly | Yes |
+| `sshl-ratings` | SShL rating list | chess | 0.75 MB | Monthly | Yes |
+| `nzcf-ratings` | NZCF rating list | chess | 0.9 MB | Monthly | Yes |
 
 The Sources marked *Not yet* are listed so you know they are coming. They are greyed out, and a notice says this version cannot fetch them.
 
 **TWIC.** The first fetch takes only the newest issue. Each later fetch takes the new issues in order, at most 26 at a time. The zips are imported as they are, without unpacking.
 
-**Rating lists.** FIDE, DSU and ECF are rating lists, not Games. Each fetch downloads the whole list, and its players replace the list's players from before in `rating-lists.sqlite`, where the [Clubs](../clubs/clubs.md) page finds them by name or ID. They have no Routes and no *After import*. Where each comes from and on what terms: [Rating lists](../reference/rating-lists.md).
+**Rating lists.** FIDE, DSU, ECF, CFC, SShL and NZCF are rating lists, not Games. Each fetch downloads the whole list, and its players replace the list's players from before in `rating-lists.sqlite`, where the [Clubs](../clubs/clubs.md) page finds them by name or ID. They have no Routes and no *After import*. Where each comes from and on what terms: [Rating lists](../reference/rating-lists.md).
 
 **Custom URL.** The address must start with `http://` or `https://` and name a PGN, SGF, KIF, CSA or PDN file, or a zip of them. Each Family's page names only its own: SGF on Go's, KIF or CSA on Shogi's. The whole file is downloaded again on each fetch, since it may have grown.
 

diff --git a/docs/clubs/clubs.md b/docs/clubs/clubs.md
@@ -75,7 +75,7 @@ The lock is a file of its own, so a copy of the Club file carries no lock.
 
 When you add a member, **Find in rating lists** searches the lists Bragd has fetched, by name or by ID. Words of a name can come in any order, each word can be just its start, and accents do not matter: `moller` finds Møller, and `carl mag` finds Carlsen, Magnus. Click a player to fill in the name, the IDs and, for a new member, the starting rating.
 
-The lists are Sources: FIDE, the Danish Chess Union (DSU) and the English Chess Federation (ECF). Each is off until you tick it in the install wizard's Knowledge step or turn it on under chess's **Databases** → Sources. The Helper then fetches it once a month in the background. Its size shows before anything is downloaded. Where each list comes from, its terms, and why other federations' lists are missing: [Rating lists](../reference/rating-lists.md).
+The lists are Sources: FIDE, the Danish Chess Union (DSU), the English Chess Federation (ECF), the Chess Federation of Canada (CFC), the Finnish Chess Federation (SShL) and the New Zealand Chess Federation (NZCF). Each is off until you tick it in the install wizard's Knowledge step or turn it on under chess's **Databases** → Sources. The Helper then fetches it once a month in the background. Its size shows before anything is downloaded. Where each list comes from, its terms, and why other federations' lists are missing: [Rating lists](../reference/rating-lists.md).
 
 ## What it needs
 

diff --git a/changelog.d/batch-t7-lists.md b/changelog.d/batch-t7-lists.md
@@ -1,0 +1,1 @@
+| **Rating lists from Canada, Finland and New Zealand.** The CFC, SShL and NZCF lists join FIDE, DSU and ECF as Sources under chess's Databases, off until you turn them on, so Find in rating lists finds players from those federations too. | [Rating lists](reference/rating-lists.md#the-lists-bragd-fetches) |
